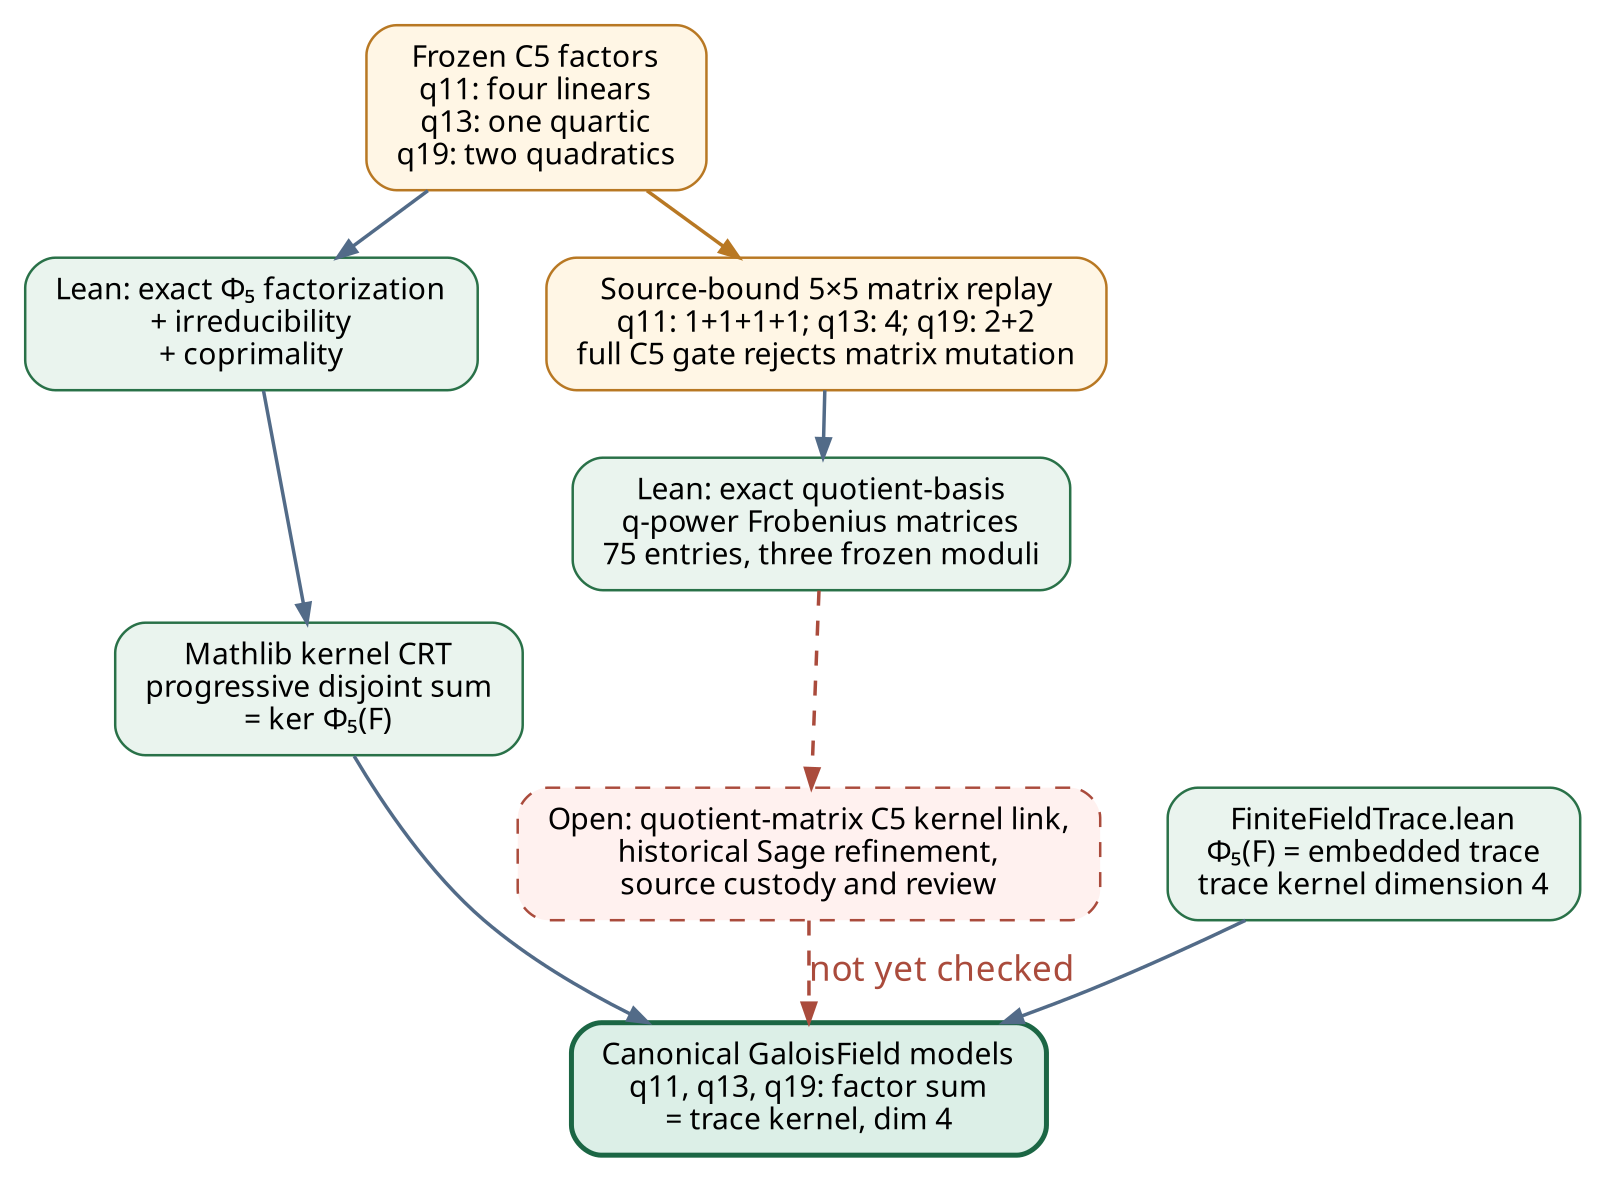
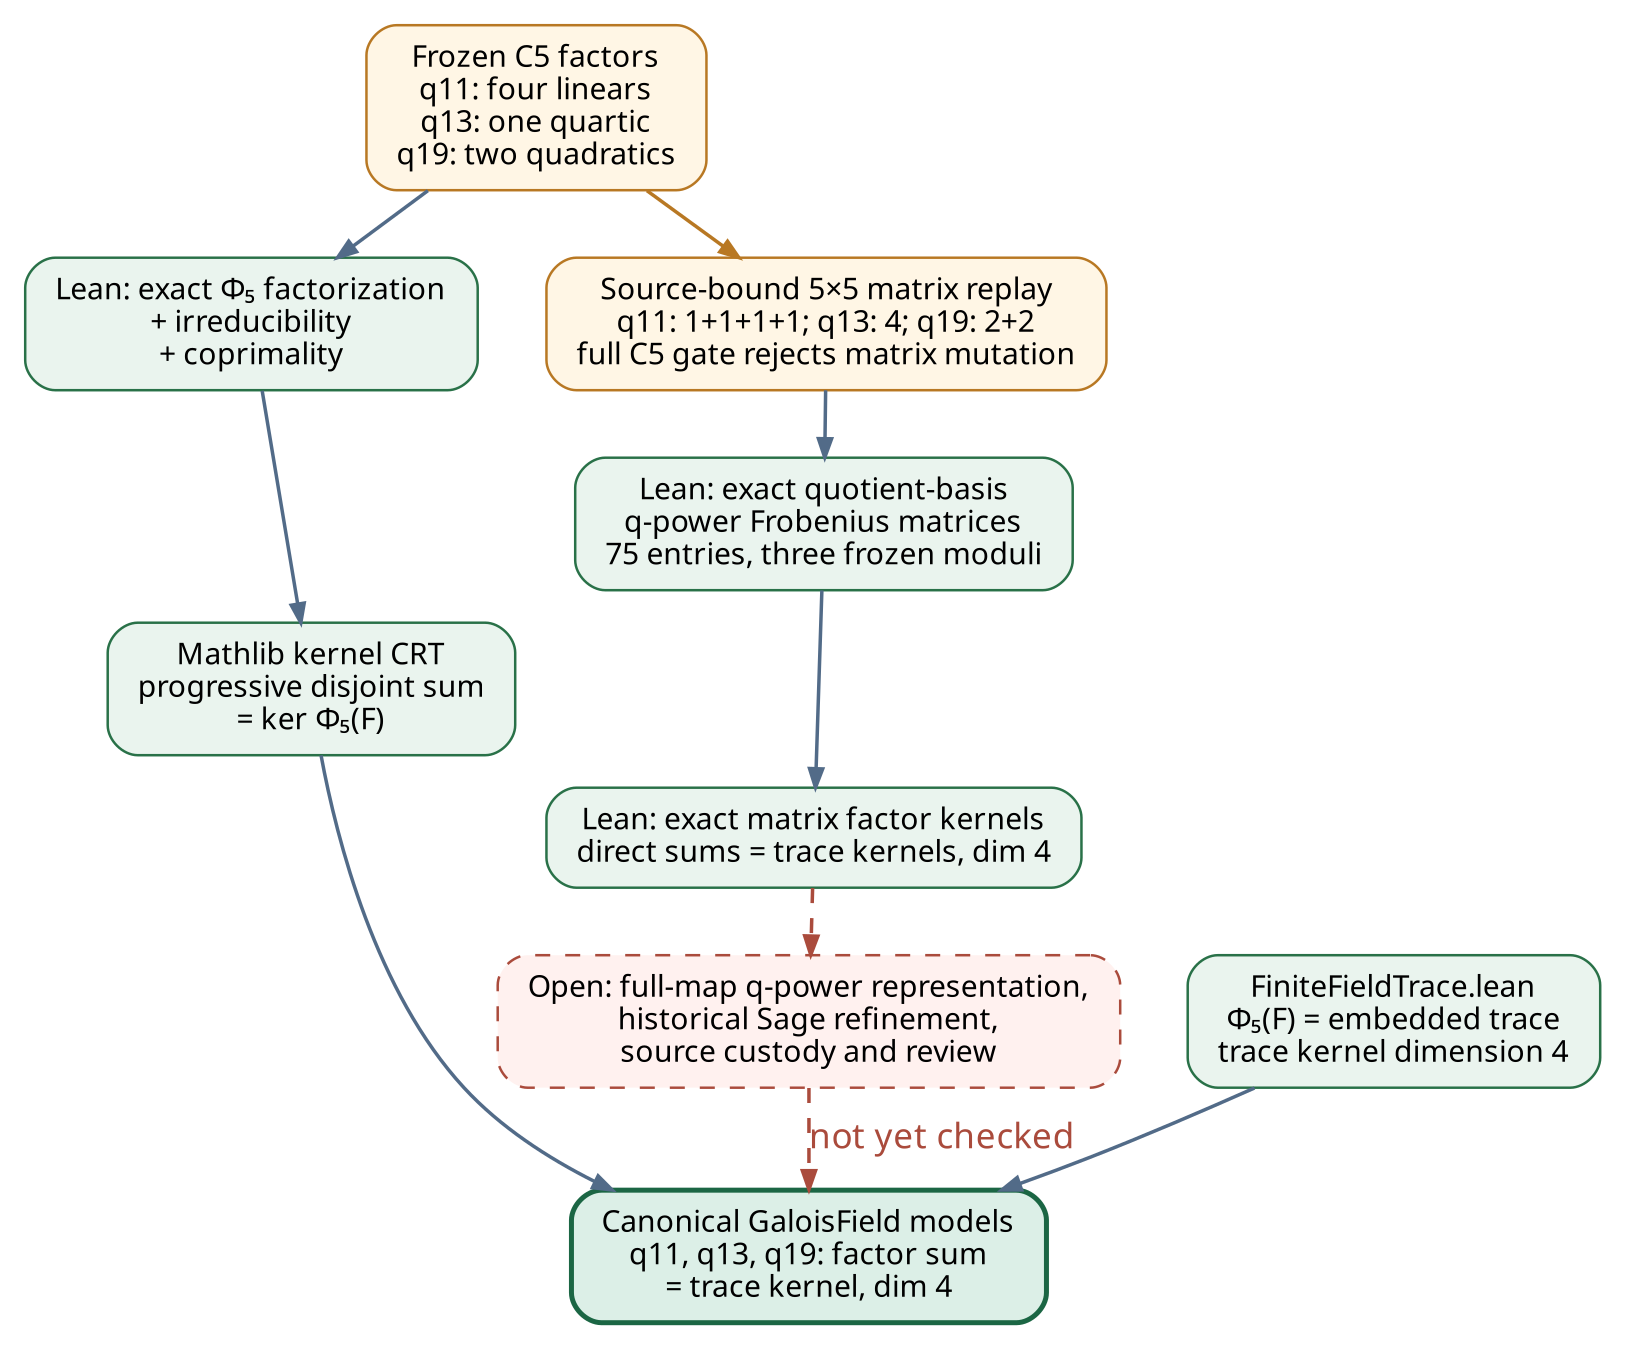
Narrow C5 bridge after exact matrix kernel proof

diff --git a/docs/reports/2026-10-22-frob-c5-factor-kernels/report.tex b/docs/reports/2026-10-22-frob-c5-factor-kernels/report.tex
@@ -52,11 +52,13 @@ three frozen outputs, recomputes each $5\times5$ Frobenius matrix from the
 recorded modulus, checks modulus/factor irreducibility and factor kernels,
 directness and trace equality. The same gates reject a mutated matrix in all
 three cells; the byte-exact receipt is included. A separate Lean certificate
-now proves all 75 q-power matrix entries in the frozen quotient bases.
+now proves all 75 q-power matrix entries in the frozen quotient bases. A second
+certificate proves direct factor-kernel sums and trace dimension four for the
+exact recorded matrices.
 
-\textbf{Boundary.} No checked link yet identifies the quotient-matrix factor
-kernels with this canonical-field theorem or verifies every historical Sage
-code path, original source custody and C5 input byte. The historical run
+\textbf{Boundary.} A full-map q-power representation lemma, historical Sage
+code-path refinement, original source custody and independent review remain
+open. The historical run
 control, C8 and experiment success gate therefore remain open. No measured
 value or performance dashboard curve changed.
 

diff --git a/problems/frob-c5-factor-kernel-and-model-bridge.md b/problems/frob-c5-factor-kernel-and-model-bridge.md
@@ -2,8 +2,8 @@
 
 - **Status:** `open`
 - **Kind:** historical code-to-model bridge and independent semantic review
-- **Affected work:** [EXP-FROB-91ee9c C5 specification](../experiments/EXP-FROB-91ee9c/specification.yaml), [frozen run](../experiments/EXP-FROB-91ee9c/runs/TASK-20260914-7119f2/manifest.yaml), [factor-kernel formal targets](../formal/targets/frob-c5-factors-q11.yaml), [quotient-matrix target](../formal/targets/frob-c5-quotient-matrices.yaml)
-- **Next action owner:** Coordinator to assign independent semantic/code review and the quotient-matrix C5 kernel link
+- **Affected work:** [EXP-FROB-91ee9c C5 specification](../experiments/EXP-FROB-91ee9c/specification.yaml), [frozen run](../experiments/EXP-FROB-91ee9c/runs/TASK-20260914-7119f2/manifest.yaml), [factor-kernel formal targets](../formal/targets/frob-c5-factors-q11.yaml), [quotient-matrix target](../formal/targets/frob-c5-quotient-matrices.yaml), [matrix-kernel target](../formal/targets/frob-c5-quotient-matrix-kernels.yaml)
+- **Next action owner:** Coordinator to assign independent semantic/code review and the full-map q-power/Sage refinement check
 - **Last updated:** 2026-10-22
 
 ## Problem
@@ -11,9 +11,10 @@
 The mathematical C5 factor-kernel statement is proved in Lean for the three
 canonical degree-five finite fields. A separate Lean certificate now proves
 that q-power on each frozen polynomial quotient basis has the exact 5×5
-matrix reconstructed from the archived outputs. The remaining gap is a
-checked link from that quotient matrix to the C5 factor-kernel assertion and
-the historical Sage execution, with original source custody and independent
+matrix reconstructed from the archived outputs. The exact recorded matrices
+now have Lean-checked C5 factor-kernel sums and trace-kernel dimension four.
+The remaining gap is a checked full-map q-power representation lemma and a
+link to historical Sage execution, with original source custody and independent
 semantic review. The frozen C5 control cannot yet be promoted to a
 proof-backed historical run verdict. C8 and the experiment success gate
 remain separate.
@@ -22,31 +23,34 @@ remain separate.
 
 - **Observed:** The frozen [run](../experiments/EXP-FROB-91ee9c/runs/TASK-20260914-7119f2/manifest.yaml) reports C5 equality and dimension four in all three core cells. The independent [object replay](../docs/reports/2026-10-22-frob-provenance-audit/core-object-replay.json) reconstructs the factor-kernel dimensions and point classifications using archived plain-Python checker primitives. The newer [source-bound matrix replay](../docs/reports/2026-10-22-frob-c5-factor-kernels/c5-matrix-replay.json) independently reconstructs the exact 5×5 Frobenius matrices from the three frozen moduli, checks factor kernels, directness, trace equality, fixed-line exclusion and a matrix mutation, and compares every archived C5 flag. It is executable evidence, not a Lean refinement proof of the historical code.
 - **Proved:** [OrderFive.lean](../formal/CryptoResearch/FrobTrace/OrderFive.lean) gives the abstract trace-kernel identity. [FiniteFieldTrace.lean](../formal/CryptoResearch/FrobTrace/FiniteFieldTrace.lean) identifies the five-term q-power Frobenius sum with finite-field trace and proves its kernel has dimension four. [FactorKernel.lean](../formal/CryptoResearch/FrobTrace/FactorKernel.lean) proves the exact q=11 four-linear, q=13 one-quartic and q=19 two-quadratic nontrivial factorizations of `X^5−1`, irreducibility, coprimality where needed, and direct-sum equality with the trace kernel of dimension four. The [factor proof report](../docs/reports/2026-10-22-frob-c5-factor-kernels/REPORT.md) records its exact-source receipts. [QuotientMatrices.lean](../formal/CryptoResearch/FrobTrace/QuotientMatrices.lean) checks 12 exact polynomial divisions and all 75 entries of the frozen q-power matrices in the three archived quotient bases; its [report](../docs/reports/2026-10-22-frob-c5-quotient-matrices/REPORT.md) and exact-source receipt bind source commit `c685c2951ac3a972a0fc07154609a37540187441`. Independent semantic review remains pending.
-- **Missing capability:** The matrix theorem proves basis coordinates in the quotient algebra but does not itself prove the modulus irreducible in Lean, identify the quotient with the canonical `GaloisField`, or prove the C5 factor-kernel identity for that exact matrix. The source-bound replay checks modulus irreducibility and C5 dimensions executably. Historical Sage implementation refinement, original source custody and independent code/semantic review remain open.
+- **Proved on exact matrices:** [QuotientMatrixKernels.lean](../formal/CryptoResearch/FrobTrace/QuotientMatrixKernels.lean) applies those factor polynomials to the exact matrices, proves the direct sums and trace-kernel dimensions, and records an [exact-source receipt](../docs/reports/2026-10-22-frob-c5-quotient-matrix-kernels/proof-verification.json) and [report](../docs/reports/2026-10-22-frob-c5-quotient-matrix-kernels/REPORT.md). Independent semantic review remains pending.
+- **Missing capability:** The matrix theorem proves basis coordinates in the quotient algebra; a full-map q-power linearity/representation lemma is not yet checked. The modulus is not proved irreducible in Lean or identified with the canonical `GaloisField`. The source-bound replay checks modulus irreducibility and C5 dimensions executably. Historical Sage implementation refinement, original source custody and independent code/semantic review remain open.
 - **What this evidence does not establish:** It does not certify all operations in the historical driver, the run's C8 control, the experiment success gate, a performance advantage or deployed-size ECDLP behavior.
 
 ## What would unblock it
 
 - [x] In Lean, prove the exact three core-cell cyclotomic factorizations, irreducibility, kernel direct sums and trace-kernel dimension four. The checked source is `FactorKernel.lean` at commit `2143dda2b698cf6e3fb4bafbe853af7262e3ffba`; exact-source receipts and semantic review status are in the linked report.
 - [x] Prove the three exact quotient-basis q-power matrices in Lean. The [matrix target](../formal/targets/frob-c5-quotient-matrices.yaml) and [receipt](../docs/reports/2026-10-22-frob-c5-quotient-matrices/proof-verification.json) cover every entry and bind the theorem to the source-bound replay receipt. This is a mathematical quotient-algebra certificate, not a proof of the historical executable.
-- [ ] Link the quotient-matrix action to the factor-kernel C5 theorem in Lean, either by a checked isomorphism to the canonical fields or by a direct matrix-model kernel proof. Check the historical implementation's field and matrix operations against that model, including a characteristic-five negative control and original source custody.
+- [x] Prove the direct factor-kernel sums and trace-kernel dimension four for the exact recorded matrices in Lean. The [matrix-kernel target](../formal/targets/frob-c5-quotient-matrix-kernels.yaml) and [receipt](../docs/reports/2026-10-22-frob-c5-quotient-matrix-kernels/proof-verification.json) bind this result to source commit `458c91dbdcb8b0116173014e421da852333e4e1a`.
+- [ ] Prove full-map q-power linearity/representation on the archived quotient basis, or a checked isomorphism to the canonical fields. Check the historical implementation's field and matrix operations against that model, including a characteristic-five negative control and original source custody.
 - [ ] Obtain independent formal semantic and code review before promoting the frozen C5 verdict.
 
-The first two completed items close the canonical-field decomposition and the
-exact quotient-basis matrix obligations. The remaining items connect them to
-each other and to the historical implementation. Even after they pass, C8 and
+The completed items cover canonical-field decomposition, exact quotient-basis
+matrix entries and factor-kernel arithmetic on those matrices. The remaining
+items connect the matrix to the full q-power map and historical implementation. Even after they pass, C8 and
 the other frozen success gates require their own evidence.
 
 ## Next discriminating step
 
-- **Action or proof obligation:** Use the now-proved q-power matrices to prove the exact nontrivial factor-kernel sums, directness and trace-kernel dimensions in each quotient matrix model, or construct a checked isomorphism to the canonical fields. Then review the archived Sage field and kernel paths against that model, with original source custody.
+- **Action or proof obligation:** Prove the q-power endomorphism on each quotient is base-field linear and has the certified matrix in the frozen basis, or construct a checked isomorphism to the canonical fields. Then review the archived Sage field and kernel paths against that model, with original source custody.
 - **Inputs and controls:** Use the frozen `q,n,g` strings and raw output hashes, the committed factor targets, and an explicit characteristic-five countercontrol where squarefreeness fails. Reject any byte mismatch or unproved quotient-field assumption.
 - **Execution limits and stop condition:** Proof/checker work may continue without a scientific trial. Preserve the frozen run. Stop any proposed C5 promotion if the model bridge, custody or independent review cannot be checked.
 - **Outcomes and next actions:** A checked model bridge and review advance C5 to historical-control adjudication; a counterexample requires a scoped run correction; an unproved bridge leaves the control unestablished.
-- **Recheck trigger:** A committed Lean quotient-matrix C5 kernel theorem or field isomorphism, plus independent code/semantic review and original source custody.
+- **Recheck trigger:** A committed Lean full-map q-power representation theorem or field isomorphism, plus independent code/semantic review and original source custody.
 
 ## Resolution and history
 
 - 2026-10-22: Opened after the finite-field trace core. At that point the factor-kernel direct sum and archived-field representation were both unproved.
 - 2026-10-22: The canonical-field factor-kernel proof and an independent source-bound matrix replay closed the mathematical decomposition gap and strengthened executable C5 validation. The historical code-to-model bridge and independent review remain open.
 - 2026-10-22: The source-bound Lean quotient-basis certificate proved all 75 q-power matrix entries for the three frozen moduli. The quotient-matrix C5 kernel link, historical Sage refinement, source custody and independent review remain open.
+- 2026-10-22: Lean proved the exact recorded matrices' factor-kernel sums and trace-kernel dimensions. Full-map q-power representation, historical Sage refinement, source custody and independent review remain open.

diff --git a/problems/README.md b/problems/README.md
@@ -14,7 +14,7 @@ Keep resolved and superseded records in the index.
 | --- | --- | --- | --- |
 | [Full ledger validation has unsuppressed integrity errors](full-ledger-validation-errors.md) | open | A clean all-corpus ledger-integrity claim: 162 unsuppressed errors in 49 paths on audited main; 142 in 40 paths after source-bound corrections, a non-execution category, and five refused-draft corrections; FROB execution-source custody also remains unbound | Source-backed additive corrections, FROB source custody or a new source-bound replay, and a current-head validator pass without baseline growth |
 | [FROB C8 independent recheck is incomplete](frob-c8-independent-recheck-incomplete.md) | open | Six object arms and three first-curve C2 lists replayed; three accepted and two rejected C4 curve orders certified; historical C3/C4 sample identities remain absent | Bind C3/C4 samples or replay them from a source-bound run, complete remaining C8 checks and Validator review |
-| [FROB C5 factor-kernel and archived-field bridge](frob-c5-factor-kernel-and-model-bridge.md) | open | Canonical-field factor kernels and all 75 archived quotient q-power matrix entries proved in Lean; source-bound replay agrees with frozen C5 flags | Quotient-matrix C5 kernel link or field isomorphism, historical Sage refinement/source custody, and independent semantic/code review |
+| [FROB C5 factor-kernel and archived-field bridge](frob-c5-factor-kernel-and-model-bridge.md) | open | Canonical-field factor kernels, all 75 quotient q-power matrix entries, and the exact matrices' factor-kernel sums/dimensions proved in Lean | Full-map q-power representation, historical Sage refinement/source custody, and independent semantic/code review |
 | [Pages workflow disabled and live dashboard snapshot stale](pages-workflow-disabled-live-snapshot-stale.md) | open | The public dashboard showed an October 11 snapshot at the October 21 check | Owner decision on workflow state, authorized hosted deploy, and public metadata/payload readback |
 | [Dashboard cannot parse 24 archived source files](dashboard-unparseable-archive.md) | open | Nine originals have separate hash-matched copies; fifteen remain raw-only, and none is semantically reviewed here | Preserve originals, review corrections against source intent, provide additive routes for the fifteen, and recheck the static reader |
 | [Published runbook claim lacks origin-tracking visibility](runbook-published-claim-origin-tracking-visibility.md) | resolved (reviewed source) | Original tracking gap and F1/P2 cleanup defect are preserved; corrective source4489fb399186 meets the scoped software gates | Fresh independent holds review validates native epoch fencing; PR #2446 final publication/CI/merge remain pending |

diff --git a/docs/reports/2026-10-22-frob-c5-factor-kernels/REPORT.md b/docs/reports/2026-10-22-frob-c5-factor-kernels/REPORT.md
@@ -91,15 +91,18 @@ A separate [source-bound Lean certificate](../2026-10-22-frob-c5-quotient-matric
 now proves all 75 entries of the three recorded q-power matrices in the
 archived quotient bases. Its exact-source verifier passed, but it does not
 prove the historical Sage implementation refines the quotient algebra or
-connect this matrix action to the canonical-field factor-kernel theorem.
+connect this matrix action to the canonical-field factor-kernel theorem. A
+[second Lean certificate](../2026-10-22-frob-c5-quotient-matrix-kernels/REPORT.md)
+applies the factor polynomials directly to the exact recorded matrices and
+proves their kernel sums, directness and trace-kernel dimension four.
 
 ## Boundary and next check
 
-The factor-kernel theorem uses canonical `GaloisField q 5` values. The new
-quotient certificate identifies the recorded matrices with q-power on the
-three frozen polynomial quotient bases, but no checked map yet connects those
-matrix kernels to this canonical-field theorem or every historical Sage code
-path and C5 input byte. Source custody and independent review are required
+The factor-kernel theorem uses canonical `GaloisField q 5` values. The quotient
+certificate proves q-power images of the frozen basis monomials, and the
+matrix-kernel certificate proves C5 for the resulting exact matrices. A
+full-map q-power linearity/representation lemma and checked historical Sage
+refinement remain open. Source custody and independent review are required
 before the historical C5 control can be called proof-backed. The
 [open problem](../../../problems/frob-c5-factor-kernel-and-model-bridge.md)
 tracks those checks. C8 and the full experiment success gate remain open.

diff --git a/docs/reports/2026-10-22-frob-c5-quotient-matrices/REPORT.md b/docs/reports/2026-10-22-frob-c5-quotient-matrices/REPORT.md
@@ -69,8 +69,11 @@ independent semantic review pending.
 The theorem binds the frozen quotient moduli and recorded matrix entries to
 mathematical q-power on the quotient basis. It does not prove that every path
 through the historical Sage driver implements that operation, recover original
-source custody, or identify every run input byte with this model. The
-[canonical finite-field factor-kernel proof](../2026-10-22-frob-c5-factor-kernels/REPORT.md)
+source custody, or identify every run input byte with this model. A separate
+[exact matrix-kernel certificate](../2026-10-22-frob-c5-quotient-matrix-kernels/REPORT.md)
+proves the factor-kernel sums and trace dimensions of these recorded matrices;
+the full-map q-power linearity/representation and Sage refinement remain open.
+The [canonical finite-field factor-kernel proof](../2026-10-22-frob-c5-factor-kernels/REPORT.md)
 and characteristic-five boundary control have separate scopes. The
 [open bridge problem](../../../problems/frob-c5-factor-kernel-and-model-bridge.md)
 tracks independent semantic/code review and historical C5 adjudication. C8
